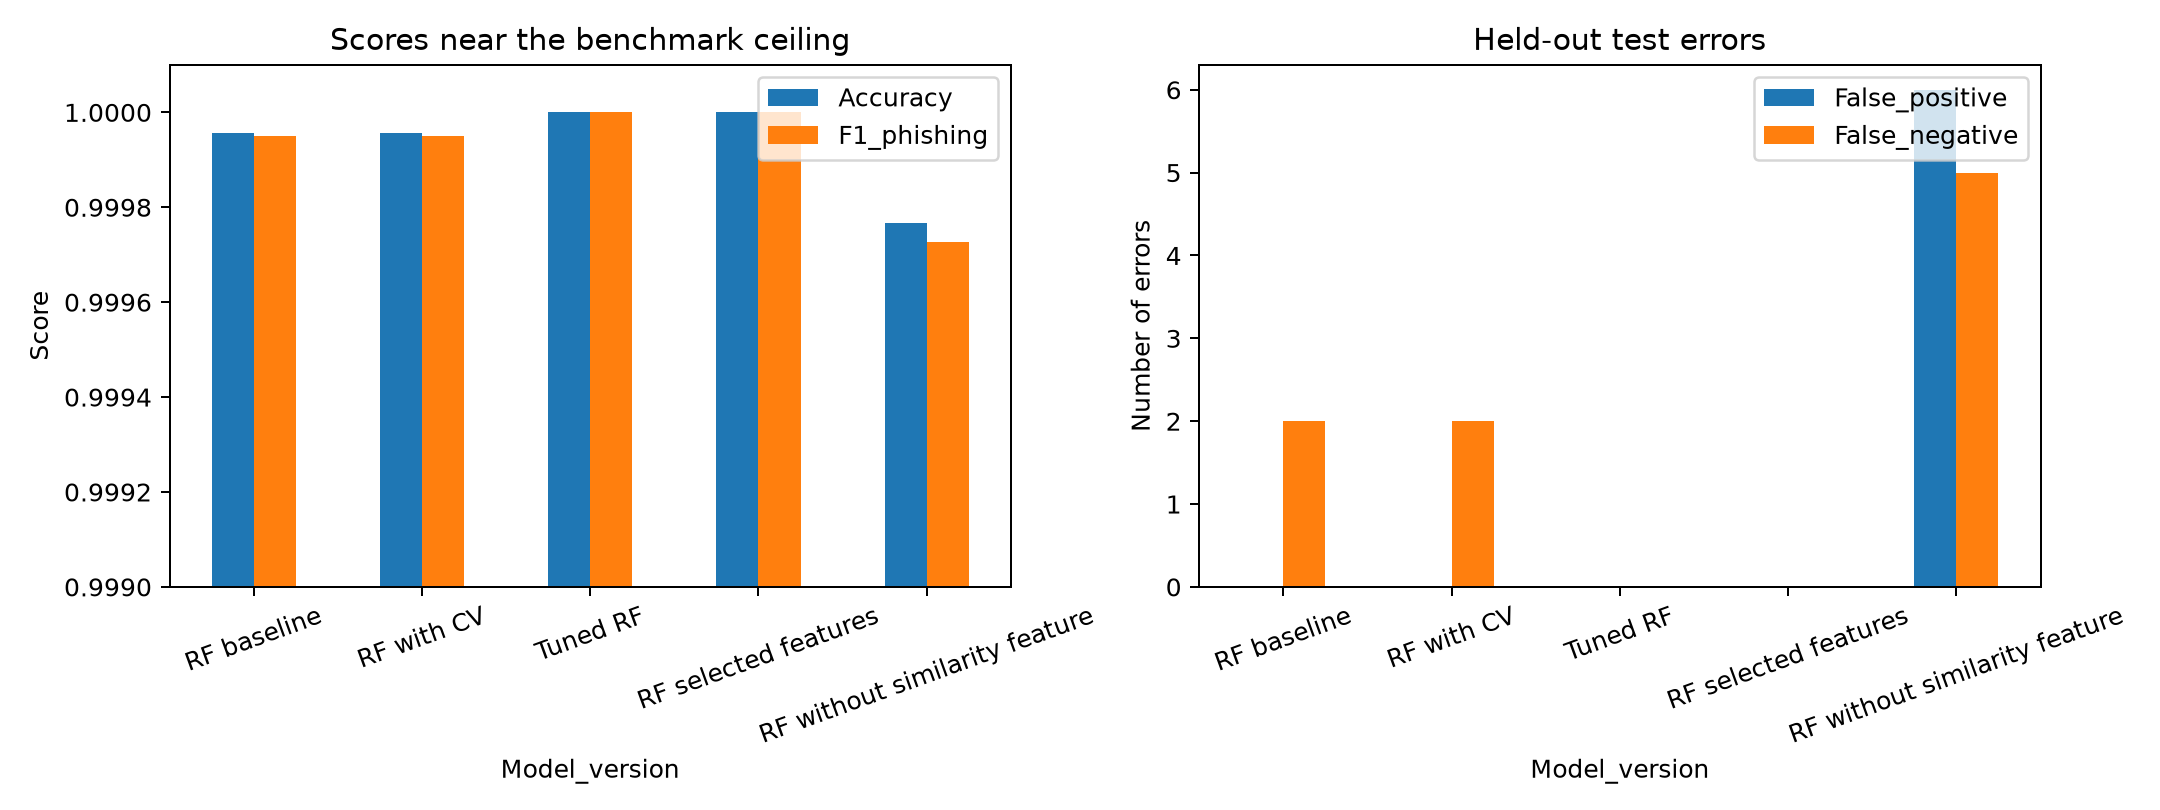
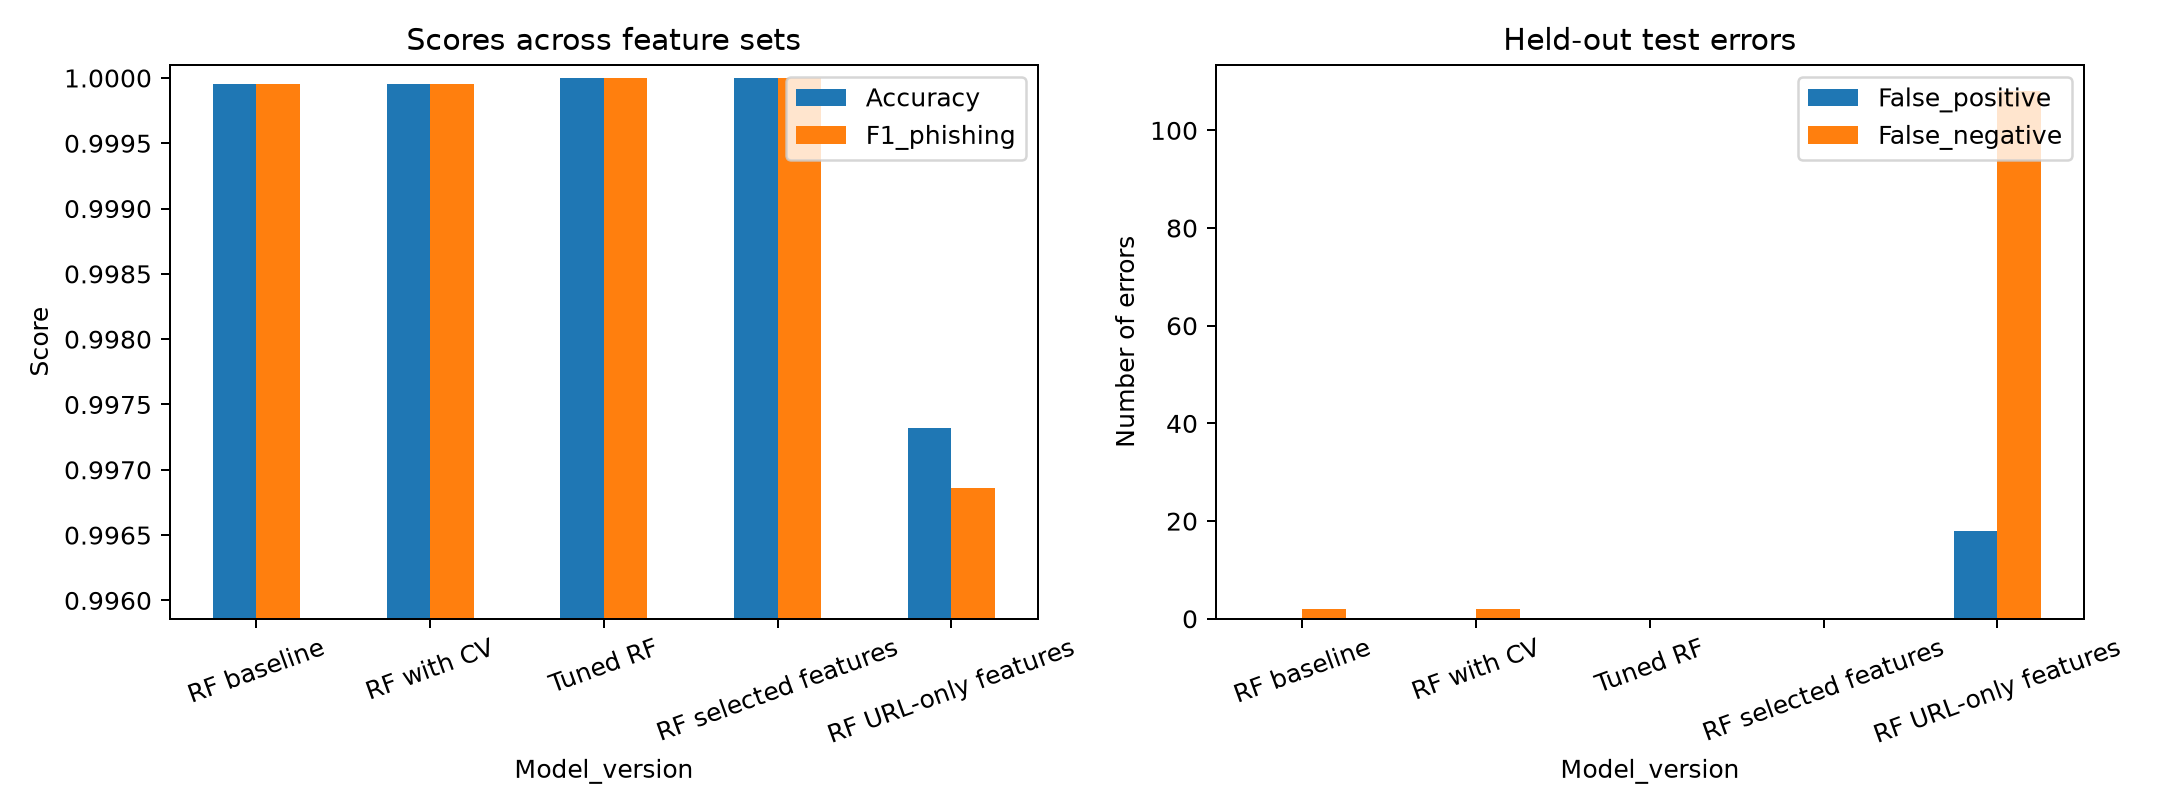
Add URL-only feature experiment

diff --git a/generate_assignment_outputs.py b/generate_assignment_outputs.py
@@ -306,7 +306,28 @@ def curate(namespace):
         X_test[proxy_reduced_features], y_test,
     )[0]
 
-    reduced_results = pd.DataFrame([similarity_reduced_result, proxy_reduced_result])
+    # URL-only experiment: structural URL measurements only. This excludes
+    # similarity/probability scores, title matches, and webpage-content fields.
+    url_only_features = [
+        "URLLength", "DomainLength", "IsDomainIP", "TLDLength", "NoOfSubDomain",
+        "HasObfuscation", "NoOfObfuscatedChar", "ObfuscationRatio",
+        "NoOfLettersInURL", "LetterRatioInURL", "NoOfDegitsInURL", "DegitRatioInURL",
+        "NoOfEqualsInURL", "NoOfQMarkInURL", "NoOfAmpersandInURL",
+        "NoOfOtherSpecialCharsInURL", "SpacialCharRatioInURL", "IsHTTPS",
+    ]
+    url_only_features = [c for c in url_only_features if c in X_all.columns]
+    url_only_model = rf_pipeline()
+    url_only_model.fit(namespace["X_train"][url_only_features], namespace["y_train"])
+    url_only_result = evaluate_model(
+        "Random Forest (URL-only structural features)", url_only_model,
+        X_test[url_only_features], y_test,
+    )[0]
+
+    reduced_results = pd.DataFrame([
+        {"Feature_set": "49 features; URLSimilarityIndex removed", **similarity_reduced_result},
+        {"Feature_set": "45 features; five proxy features removed", **proxy_reduced_result},
+        {"Feature_set": f"{len(url_only_features)} URL structural features", **url_only_result},
+    ])
     reduced_results.to_csv(OUTPUT_DIR / "19_proxy_feature_ablation.csv", index=False)
     similarity_reduced_metrics = {
         key: similarity_reduced_result[key]
@@ -317,6 +338,13 @@ def curate(namespace):
     }
     proxy_reduced_metrics = {
         key: proxy_reduced_result[key]
+        for key in [
+            "Accuracy", "Precision_phishing", "Recall_phishing", "F1_phishing",
+            "ROC_AUC_phishing", "Specificity_legitimate", "False_positive", "False_negative",
+        ]
+    }
+    url_only_metrics = {
+        key: url_only_result[key]
         for key in [
             "Accuracy", "Precision_phishing", "Recall_phishing", "F1_phishing",
             "ROC_AUC_phishing", "Specificity_legitimate", "False_positive", "False_negative",
@@ -346,7 +374,7 @@ def curate(namespace):
         {"Model_version": "RF with CV", "Features": "All 50 numeric features", "CV_used": "Yes", "Tuning_used": "No", **{**cv_result, "Model": None}},
         {"Model_version": "Tuned RF", "Features": "All 50 numeric features", "CV_used": "Yes", "Tuning_used": "Yes", **metric_row("Random Forest (tuned)")},
         {"Model_version": "RF selected features", "Features": "Top 15 features", "CV_used": "Yes", "Tuning_used": "Yes", **metric_row("Random Forest (top 15 features)")},
-        {"Model_version": "RF without similarity feature", "Features": f"{len(similarity_reduced_features)} reduced features", "CV_used": "Yes", "Tuning_used": "Yes", **similarity_reduced_metrics},
+        {"Model_version": "RF URL-only features", "Features": f"{len(url_only_features)} URL structural features", "CV_used": "No", "Tuning_used": "No", **url_only_metrics},
     ])
     # Keep the six columns required by the assignment as the first columns,
     # while retaining the full metrics for transparent checking and discussion.
@@ -360,10 +388,11 @@ def curate(namespace):
     error_table = improvement_table[["Model_version", "False_positive", "False_negative"]].copy()
     error_table.to_csv(OUTPUT_DIR / "21_improvement_error_counts.csv", index=False)
     fig, axes = plt.subplots(1, 2, figsize=(12, 4.5))
+    score_min = max(0.0, float(improvement_table[["Accuracy", "F1_phishing"]].min().min()) - 0.001)
     improvement_table.set_index("Model_version")[["Accuracy", "F1_phishing"]].plot(
-        kind="bar", ax=axes[0], ylim=(0.999, 1.0001), rot=20,
+        kind="bar", ax=axes[0], ylim=(score_min, 1.0001), rot=20,
     )
-    axes[0].set_title("Scores near the benchmark ceiling")
+    axes[0].set_title("Scores across feature sets")
     axes[0].set_ylabel("Score")
     error_table.set_index("Model_version")[["False_positive", "False_negative"]].plot(
         kind="bar", ax=axes[1], rot=20,
@@ -414,7 +443,7 @@ def curate(namespace):
         {"Artifact": "15_cross_validation_results.csv", "Report_section": "9.1 Cross-validation", "Use": "Fold scores, mean, and standard deviation"},
         {"Artifact": "16_hyperparameter_search_results.csv", "Report_section": "9.2 Hyperparameter tuning", "Use": "Search configurations and scores"},
         {"Artifact": "17_feature_importance.csv / 18_feature_importance.png", "Report_section": "9.3 Feature selection", "Use": "Top-feature ranking"},
-        {"Artifact": "19_proxy_feature_ablation.csv", "Report_section": "9.3 Feature selection / 11 Discussion", "Use": "Full versus reduced feature set"},
+        {"Artifact": "19_proxy_feature_ablation.csv", "Report_section": "9.3 Feature selection / 11 Discussion", "Use": "Single-feature, five-proxy, and URL-only ablation results"},
         {"Artifact": "20_improvement_comparison.csv / 21_improvement_comparison.png", "Report_section": "9.4 Improvement comparison", "Use": "Required five-row comparison table plus held-out error figure"},
         {"Artifact": "21_improvement_error_counts.csv", "Report_section": "9.4 Improvement comparison", "Use": "Exact false-positive and false-negative counts"},
         {"Artifact": "22_paper_comparison.csv", "Report_section": "10 Comparison with published paper", "Use": "Paper versus reproduced metrics"},
